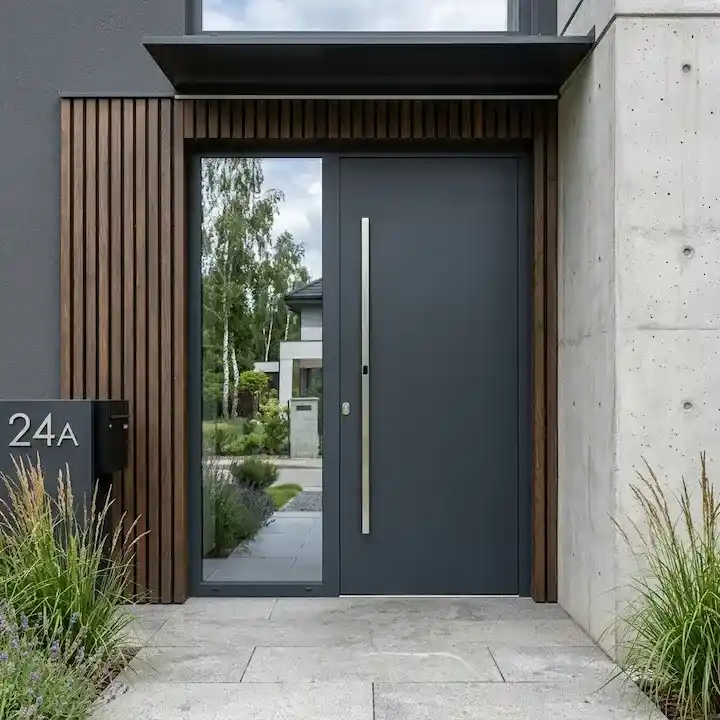
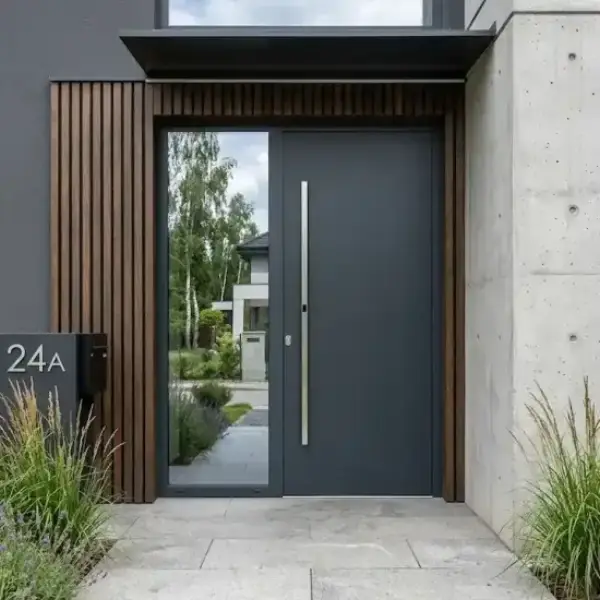
perf: kompresja obrazow WebP (-30%) + prawidlowe atrybuty width/height

diff --git a/index.html b/index.html
@@ -163,7 +163,7 @@
             <div class="services-bento">
                 <a href="/bramy-garazowe-lodz/" class="bento-card bento-large fade-in">
                     <div class="service-img-wrap">
-                        <img src="assets/images/img_bramy.webp" alt="Bramy garażowe" loading="lazy" width="720" height="480" sizes="(max-width: 768px) 100vw, 50vw" decoding="async">
+                        <img src="assets/images/img_bramy.webp" alt="Bramy garażowe" loading="lazy" width="720" height="480" sizes="(max-width: 768px) 100vw, (max-width: 1024px) 50vw, 33vw" decoding="async">
                     </div>
                     <div class="service-content">
                         <h3>Bramy Garażowe</h3>
@@ -174,7 +174,7 @@
 
                 <a href="/drzwi-lodz/" class="bento-card fade-in" style="transition-delay: 0.1s">
                     <div class="service-img-wrap">
-                        <img src="assets/images/img_drzwi.webp" alt="Drzwi zewnętrzne" loading="lazy" width="600" height="400" sizes="(max-width: 768px) 100vw, 33vw" decoding="async">
+                        <img src="assets/images/img_drzwi.webp" alt="Drzwi zewnętrzne" loading="lazy" width="600" height="563" sizes="(max-width: 768px) 100vw, 33vw" decoding="async">
                     </div>
                     <div class="service-content">
                         <h3>Drzwi Zewnętrzne</h3>
@@ -185,7 +185,7 @@
 
                 <a href="/okna-lodz/" class="bento-card fade-in" style="transition-delay: 0.2s">
                     <div class="service-img-wrap">
-                        <img src="assets/images/img_okna.webp" alt="Okna PCV" loading="lazy" width="600" height="400" sizes="(max-width: 768px) 100vw, 33vw" decoding="async">
+                        <img src="assets/images/img_okna.webp" alt="Okna PCV" loading="lazy" width="600" height="563" sizes="(max-width: 768px) 100vw, 33vw" decoding="async">
                     </div>
                     <div class="service-content">
                         <h3>Okna PCV</h3>
@@ -196,7 +196,7 @@
                 
                 <a href="/rolety-zewnetrzne-lodz/" class="bento-card fade-in" style="transition-delay: 0.3s">
                     <div class="service-img-wrap">
-                        <img src="assets/images/img_rolety.webp" alt="Rolety zewnętrzne" loading="lazy" width="600" height="400" sizes="(max-width: 768px) 100vw, 33vw" decoding="async">
+                        <img src="assets/images/img_rolety.webp" alt="Rolety zewnętrzne" loading="lazy" width="600" height="563" sizes="(max-width: 768px) 100vw, 33vw" decoding="async">
                     </div>
                     <div class="service-content">
                         <h3>Rolety</h3>
@@ -207,7 +207,7 @@
 
                 <a href="/zaluzje-lodz/" class="bento-card fade-in" style="transition-delay: 0.4s">
                     <div class="service-img-wrap">
-                        <img src="assets/images/img_zaluzje.webp" alt="Żaluzje" loading="lazy" width="600" height="400" sizes="(max-width: 768px) 100vw, 33vw" decoding="async">
+                        <img src="assets/images/img_zaluzje.webp" alt="Żaluzje" loading="lazy" width="600" height="563" sizes="(max-width: 768px) 100vw, 33vw" decoding="async">
                     </div>
                     <div class="service-content">
                         <h3>Żaluzje</h3>
